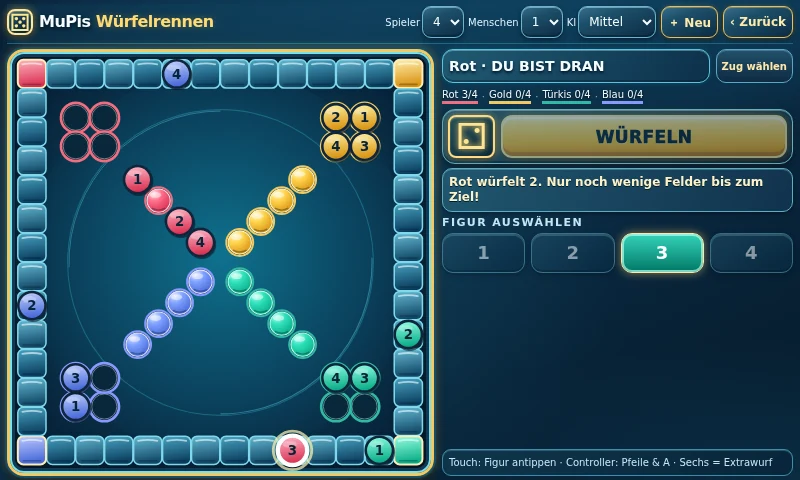
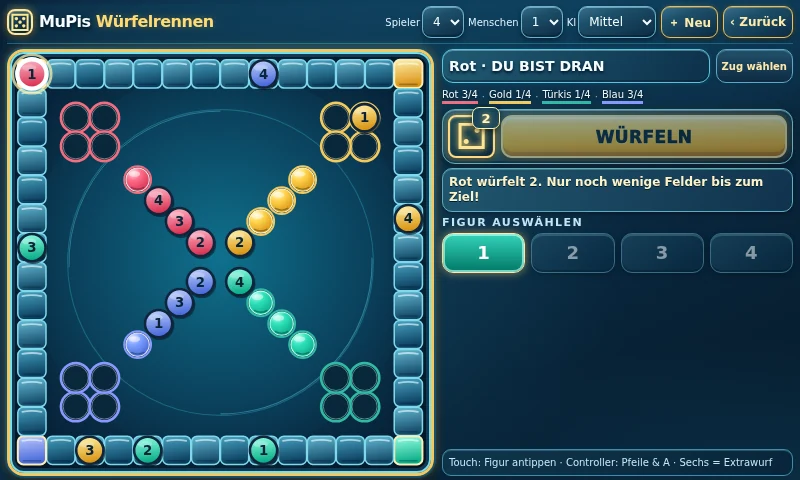
fix(dicerace): hold six, relax start clearing, guard captures

diff --git a/examples/mupi-wuerfelrennen/app.js b/examples/mupi-wuerfelrennen/app.js
@@ -39,8 +39,8 @@ const DiceRace=(()=>{
    const exits=moves.filter(m=>b[p][m.piece]===-1);
    if(exits.length)return exits;
   }
-  // Die eigene Startposition darf nicht unnötig besetzt bleiben.
-  const clearStart=moves.filter(m=>b[p][m.piece]===0);
+  // Nur solange Figuren warten, muss die eigene Startposition frei werden.
+  const clearStart=waiting?moves.filter(m=>b[p][m.piece]===0):[];
   if(clearStart.length)return clearStart;
   return moves;
  }
@@ -51,7 +51,17 @@ const DiceRace=(()=>{
    rawMoves(b,p,die).some(m=>b[p][m.piece]>=0));
   return canMoveOutside?1:3;
  }
- function apply(b,p,m){const out=b.map(row=>row.slice());out[p][m.piece]=m.to;for(const c of m.captured)out[c.player][c.piece]=-1;return out;}
+ // Always derive captures from the current board, never trust a delayed/stale move.
+ function apply(b,p,m){
+  const from=b[p]?.[m.piece];
+  const die=from===-1?6:m.to-from;
+  const legal=possible(b,p,die).find(x=>x.piece===m.piece&&x.to===m.to);
+  if(!legal)throw new Error("Ungültiger oder veralteter Würfelrennen-Zug");
+  const out=b.map(row=>row.slice());
+  out[p][legal.piece]=legal.to;
+  for(const c of legal.captured)out[c.player][c.piece]=-1;
+  return out;
+ }
  function choose(b,p,die,level){
   const ms=possible(b,p,die);if(!ms.length)return null;
   if(level==="easy")return ms[Math.floor(Math.random()*ms.length)];
@@ -160,7 +170,7 @@ for(let p=0;p<4;p++){
   staticLayer.append(S("circle",{cx:bx,cy:by,r:13.2,fill:"#0a3043",stroke:goalTop[p],"stroke-width":.75,opacity:.68}));
  }
 }
-let b,players=4,human=1,turn=0,die=0,ended=false,epoch=0,selectedPiece=0,aiTimer=0,attempts=0,maxAttempts=3;
+let b,players=4,human=1,turn=0,die=0,lastRoll=0,ended=false,settling=false,epoch=0,selectedPiece=0,aiTimer=0,pendingAdvance=null,attempts=0,maxAttempts=3;
 const active=()=>players===2?[0,2]:players===3?[0,1,2]:[0,1,2,3];
 const isHuman=()=>active().indexOf(turn)<human;
 const locate=(p,k)=>{
@@ -208,41 +218,65 @@ function render(){
   scoreNodes.push(tag);
  }
  $("score").replaceChildren(...scoreNodes);
- $("attempts").textContent=ended?"Sieg":die?"Zug wählen":maxAttempts===3?"Wurf "+Math.min(attempts+1,3)+"/3":"Dein Zug";
- $("dice").textContent=die?faces[die-1]:"⚄";
- $("roll").disabled=ended||!isHuman()||die>0;
+ $("attempts").textContent=ended?"Sieg":settling?"Geschlagen!":die?"Zug wählen":maxAttempts===3?"Wurf "+Math.min(attempts+1,3)+"/3":"Dein Zug";
+ const visibleDie=die||lastRoll;
+ $("dice").textContent=visibleDie?faces[visibleDie-1]:"?";
+ $("dice").dataset.value=visibleDie?String(visibleDie):"";
+ $("dice").classList.toggle("six",visibleDie===6);
+ $("roll").disabled=ended||settling||!isHuman()||die>0;
  for(let k=0;k<4;k++){
-  const btn=pieceButtons[k];btn.disabled=ended||!isHuman()||!playable.has(k);
+  const btn=pieceButtons[k];btn.disabled=ended||settling||!isHuman()||!playable.has(k);
   btn.classList.toggle("active",selectedPiece===k&&playable.has(k)&&isHuman()&&!ended);
  }
 }
 function finishMove(m){
- b=DiceRace.apply(b,turn,m);
+ if(ended||settling||!die)return;
+ // Revalidate before applying: a timer must never move a piece for a later turn.
+ const legal=DiceRace.possible(b,turn,die).find(x=>x.piece===m.piece&&x.to===m.to);
+ if(!legal)return;
+ epoch++;clearTimeout(aiTimer);pendingAdvance=null;
+ b=DiceRace.apply(b,turn,legal);
  const face=die;
- status(names[turn]+" zieht Stein "+(m.piece+1)+(m.captured.length?" – rausgeworfen!":""));
- if(b[turn].every(v=>v>=52)){ended=true;die=0;status(names[turn]+" GEWINNT!");render();return;}
- if(face===6){
-  attempts=0;maxAttempts=DiceRace.rollLimit(b,turn);die=0;
-  status(names[turn]+" hat eine Sechs – Extrawurf!");
-  render();computer();
- }else next();
+ const victimNames=legal.captured.map(c=>names[c.player]+" "+(c.piece+1)).join(", ");
+ status(legal.captured.length?
+  names[turn]+" schlägt "+victimNames+" – zurück ins Haus!":
+  names[turn]+" zieht Figur "+(legal.piece+1)+".");
+ if(b[turn].every(v=>v>=52)){
+  ended=true;die=0;status(names[turn]+" GEWINNT!");render();return;
+ }
+ const advance=()=>{
+  pendingAdvance=null;settling=false;die=0;
+  if(face===6){
+   attempts=0;maxAttempts=DiceRace.rollLimit(b,turn);
+   status(names[turn]+" hat eine Sechs – Extrawurf!");
+   render();computer();
+  }else next();
+ };
+ if(legal.captured.length){
+  // Hold the board so the beaten piece visibly returns home before the next turn.
+  settling=true;die=0;pendingAdvance=advance;render();
+  const id=epoch;
+  aiTimer=setTimeout(()=>{if(id===epoch&&!ended)advance();},1000);
+ }else advance();
 }
 function select(k,p=turn){
- selectedPiece=k;if(p!==turn||ended||!isHuman()||!die){render();return;}
+ if(p!==turn||ended||settling||!isHuman()||!die)return;
+ selectedPiece=k;
  const m=DiceRace.possible(b,turn,die).find(m=>m.piece===k);
  if(!m){status("Figur "+(k+1)+" kann mit "+die+" nicht ziehen.");render();return;}
  finishMove(m);
 }
 function next(){
- die=0;const list=active();turn=list[(list.indexOf(turn)+1)%list.length];
+ die=0;lastRoll=0;const list=active();turn=list[(list.indexOf(turn)+1)%list.length];
  attempts=0;maxAttempts=DiceRace.rollLimit(b,turn);selectedPiece=0;
  status(names[turn]+" ist dran."+(maxAttempts===3?" Drei Wurfversuche.":""));
  render();computer();
 }
 function rolled(){
- if(ended||die)return;
+ if(ended||die||settling)return;
+ epoch++;clearTimeout(aiTimer);
  attempts++;
- die=1+Math.floor(Math.random()*6);
+ die=1+Math.floor(Math.random()*6);lastRoll=die;
  const ms=DiceRace.possible(b,turn,die);
  if(ms.length&&!ms.some(m=>m.piece===selectedPiece))selectedPiece=ms[0].piece;
  const forcedExit=die===6&&ms.length&&ms.every(m=>b[turn][m.piece]===-1);
@@ -259,27 +293,27 @@ function rolled(){
     status("Kein Zug möglich – nächster Versuch ("+(attempts+1)+"/"+maxAttempts+").");
     render();computer();
    }else{status("Kein Zug möglich – nächster Spieler.");next();}
-  },300);
+  },die===6?1050:520);
  }else if(forcedExit){
   // Alle Basisfiguren sind gleichwertig: automatische Pflichtausfahrt.
   const id=epoch;aiTimer=setTimeout(()=>{
    if(id!==epoch||ended||die!==6)return;finishMove(ms[0]);
-  },260);
+  },1150);
  }else if(!isHuman()){
   const id=epoch;aiTimer=setTimeout(()=>{if(id!==epoch||ended)return;
    const move=DiceRace.choose(b,turn,die,$("difficulty").value);if(move)finishMove(move);
-  },220);
+  },die===6?1050:450);
  }
 }
 function computer(){
  if(!ended&&!isHuman()&&!die){
-  const id=epoch;aiTimer=setTimeout(()=>{if(id===epoch)rolled();},160);
+  const id=epoch;aiTimer=setTimeout(()=>{if(id===epoch&&!settling)rolled();},320);
  }
 }
 function reset(){
- epoch++;clearTimeout(aiTimer);
+ epoch++;clearTimeout(aiTimer);pendingAdvance=null;
  players=+ $("playercount").value;human=Math.min(+ $("human").value,players);$("human").value=human;
- b=DiceRace.state(players);turn=active()[0];die=0;ended=false;selectedPiece=0;
+ b=DiceRace.state(players);turn=active()[0];die=0;lastRoll=0;ended=false;settling=false;selectedPiece=0;
  attempts=0;maxAttempts=DiceRace.rollLimit(b,turn);
  status("Du hast drei Versuche, eine Sechs zu würfeln.");render();computer();
 }
@@ -288,12 +322,18 @@ $("restart").onclick=reset;
 for(const id of ["playercount","human","difficulty"])$(id).onchange=reset;
 $("exit").onclick=()=>{epoch++;clearTimeout(aiTimer);sdk.exit();};
 sdk.on("lifecycle.pause",()=>{epoch++;clearTimeout(aiTimer);});
+sdk.on("lifecycle.resume",()=>{
+ // If a capture animation was interrupted, resume the recorded turn transition.
+ if(pendingAdvance){pendingAdvance();return;}
+ // A computer turn must also resume if it was waiting for its next roll.
+ if(!ended&&!die&&!settling)computer();
+});
 sdk.on("input",({button,action})=>{
  if(action!=="press")return;
  if(button==="BACK"){epoch++;clearTimeout(aiTimer);sdk.exit();return;}
  if(button==="LEFT"||button==="UP")selectedPiece=(selectedPiece+3)%4;
  if(button==="RIGHT"||button==="DOWN")selectedPiece=(selectedPiece+1)%4;
- if(button==="A"||button==="START"){if(!die&&isHuman())rolled();else if(die)select(selectedPiece);}
+ if(button==="A"||button==="START"){if(!die&&isHuman()&&!settling)rolled();else if(die)select(selectedPiece);}
  render();
 });
 reset();

diff --git a/examples/mupi-wuerfelrennen/style.css b/examples/mupi-wuerfelrennen/style.css
@@ -96,7 +96,24 @@ select{min-width:42px;max-width:80px}
   background:linear-gradient(145deg,#214d57,#09283b);
   box-shadow:inset 0 1px 2px #fff2b46e,0 0 8px #ffcf5b8a,0 2px 4px #0008;
 }
-#dice.roll{animation:roll .25s ease-out}
+#dice{position:relative}
+#dice[data-value]:not([data-value=""])::after{
+ content:attr(data-value);position:absolute;right:-7px;top:-10px;
+ min-width:20px;height:20px;padding:0 3px;display:grid;place-items:center;
+ border:1px solid #fff1a8;border-radius:7px;background:#17445b;
+ font:900 13px/1 system-ui,sans-serif;color:#fff5bb;box-shadow:0 2px 6px #0009;
+}
+#dice.six{
+ color:#fff8ca;border-color:#fff7c9;
+ box-shadow:inset 0 1px 3px #fff4bdb3,0 0 16px #ffe082,0 2px 4px #0008;
+}
+#dice.roll{animation:roll .45s ease-out}
+#dice.roll.six{animation:six-pulse 1.05s ease-out}
+@keyframes six-pulse{
+ 0%,100%{transform:scale(1)}
+ 22%,65%{transform:scale(1.13);filter:brightness(1.35)}
+ 45%{transform:scale(1.03);filter:brightness(1.1)}
+}
 .primary{
   flex:1;min-height:52px;border:2px solid #fff3a8;border-radius:11px;
   background:linear-gradient(#fff9c8 0%,#ffe387 17%,#ffd254 46%,#f8b92e 78%,#d9901f 100%);

diff --git a/tests/test_board_game_browser_smoke.py b/tests/test_board_game_browser_smoke.py
@@ -9,6 +9,7 @@ import math
 import itertools
 import shutil
 import socket
+import tempfile
 import subprocess
 import time
 import unittest
@@ -86,6 +87,43 @@ class BoardGamesBrowserSmoke(unittest.TestCase):
                         )
                 else:
                     self.assertGreaterEqual(result.stdout.count("<rect"),required)
+
+
+    def test_dicerace_six_is_visible_during_automatic_exit(self):
+        # Use the real browser and runtime, with only a deterministic die roll.
+        app=ROOT/"examples"/"mupi-wuerfelrennen"
+        with tempfile.TemporaryDirectory(prefix="mupi-dicerace-") as tmp:
+            dest=Path(tmp)
+            for name in ("index.html","app.js","style.css","mupibox-sdk.js"):
+                shutil.copy2(app/name,dest/name)
+            html=(dest/"index.html").read_text(encoding="utf-8")
+            probe="""<script>
+              Math.random=()=>0.99;
+              document.getElementById('roll').click();
+              document.body.dataset.first=document.getElementById('dice').dataset.value;
+              setTimeout(()=>{
+                document.body.dataset.hold=document.getElementById('dice').dataset.value;
+                document.body.dataset.message=document.getElementById('status').textContent;
+              },650);
+              setTimeout(()=>{
+                document.body.dataset.after=document.getElementById('dice').dataset.value;
+                document.body.dataset.next=document.getElementById('status').textContent;
+              },1450);
+            </script>"""
+            (dest/"index.html").write_text(
+                html.replace("</body>",probe+"</body>"),encoding="utf-8")
+            run=subprocess.run([
+                BROWSER,"--headless","--no-sandbox","--disable-gpu",
+                "--disable-dev-shm-usage","--disable-background-networking",
+                "--virtual-time-budget=1700","--window-size=800,480",
+                "--dump-dom",(dest/"index.html").as_uri(),
+            ],capture_output=True,text=True,timeout=22)
+            self.assertEqual(run.returncode,0,run.stderr[-500:])
+            self.assertRegex(run.stdout,r'data-first="6"')
+            self.assertRegex(run.stdout,r'data-hold="6"')
+            self.assertRegex(run.stdout,r'data-message="Sechs!')
+            self.assertRegex(run.stdout,r'data-after="6"')
+            self.assertRegex(run.stdout,r'data-next="[^"]*Extrawurf!')
 
 
 if __name__=="__main__":

diff --git a/tools/capture_mupi_wuerfelrennen_screenshots.py b/tools/capture_mupi_wuerfelrennen_screenshots.py
@@ -27,7 +27,7 @@ SCENES = (
 )
 SIMULATE = r"""
 const g = require(process.argv[1]);
-let seed = 290584;
+let seed = 2; // deterministic game where Rot reaches the finish after all scene types
 Math.random = () => {
   seed ^= seed << 13;
   seed ^= seed >>> 17;
@@ -61,7 +61,7 @@ for (let roll = 0; roll < 12000; roll++) {
     }
     b = g.apply(b, turn, chosen);
     if (b[turn].every(v => v >= 52)) {
-      victory = { board: clone(), turn, die: 0, selected: 0 };
+      victory = { board: clone(), turn, die: 0, lastRoll: die, selected: 0 };
       break;
     }
     if (die === 6) {
@@ -99,6 +99,8 @@ window.__setScreenshotState = scene => {
   b = item.board.map(row => row.slice());
   turn = item.turn;
   die = item.die;
+  lastRoll = item.lastRoll || item.die || 0;
+  settling = false;
   ended = scene === "win";
   selectedPiece = item.selected;
   attempts = item.attempts || 1;

diff --git a/examples/mupi-wuerfelrennen/README.md b/examples/mupi-wuerfelrennen/README.md
@@ -1,14 +1,14 @@
 # MuPis Würfelrennen
 
 Eigenständiges, offline spielbares Würfel-Brettspiel für zwei bis vier Personen
-oder KI-Spieler. Die aktuelle **Hochglanz-Edition 0.2.8** kombiniert ein
+oder KI-Spieler. Die aktuelle **Hochglanz-Edition 0.2.9** kombiniert ein
 goldgerahmtes Spielfeld mit 52 äußeren Feldern, vier Startbereichen und
 16 getrennten, kreisförmigen Zielfeldern. Optimiert für die **5-Zoll-MuPiBox
 (800 × 480 Pixel)** mit Touch- und Controllerbedienung.
 
 ## Screenshots (800 × 480)
 
-Diese Bilder stammen direkt aus der **laufenden Community-Web-App v0.2.8**,
+Diese Bilder stammen direkt aus der **laufenden Community-Web-App v0.2.9**,
 aufgenommen mit Chromium bei 800 × 480 Pixeln. Für die Spielsituationen
 wurden nachvollziehbare Spielstände aus einer vollständig durch die
 Spiel-Engine simulierten Partie verwendet. Es sind **keine KI-Mockups**
@@ -29,11 +29,16 @@ direkt im Ordner dieser Anwendung.
 
 - Eine **6** bringt eine Figur verpflichtend aus dem Haus, sofern dies möglich
   ist. Eine gegnerische Figur auf dem Startfeld wird dabei geschlagen.
-- Die eigene Figur auf dem Startfeld muss bei nächster legaler Gelegenheit
-  weiterziehen; eine Blockade lässt einen anderen gültigen Zug zu.
+- Solange noch Figuren im Haus warten, muss das eigene Startfeld bei nächster
+  legaler Gelegenheit frei werden. Sind alle vier Figuren draußen, entfällt
+  dieser Zwang und es dürfen alle sonst erlaubten Figuren ziehen.
 - Wenn keine bereits ausgezogene Figur einen legalen Zug ausführen kann,
   gibt es bis zu **drei Wurfversuche**.
-- Eine 6 nach einem gültigen Zug gibt einen **Extrawurf**.
+- Eine 6 wird deutlich sichtbar angezeigt und bei automatischer Pflichtausfahrt
+  mindestens eine Sekunde gezeigt. Eine 6 nach einem gültigen Zug gibt einen **Extrawurf**.
+- Nach einem Schlag kehrt **nur die geschlagene Figur** ins eigene Haus zurück;
+  die angreifende Figur steht auf dem Schlagfeld. Die Anzeige pausiert kurz,
+  bevor der nächste Zug beginnt.
 - Eigene Figuren dürfen keine Felder doppelt belegen, und im Zielgang darf
   nicht über andere eigene Figuren gezogen werden. Der Zieleinlauf verlangt
   die passende Augenzahl.
@@ -74,6 +79,6 @@ node --test tests/community_board_games.test.cjs
 Der Builder schließt `README.md` und alle
 `screenshot-*.webp`-Dateien ausdrücklich aus dem installierbaren
 `.mupiapp`-Archiv aus, damit die Galerie keinen Speicherplatz auf der Box
-belegt. Offizielle Katalogversion: **0.2.8**, Community Preview 50.
+belegt. Offizielle Katalogversion: **0.2.8**, Community Preview 50 (0.2.9 im Quellcode, noch nicht veröffentlicht).
 Die App benötigt nur die `controller`-Berechtigung, keine Netzverbindung.
 Quellcode unter MIT-Lizenz.
